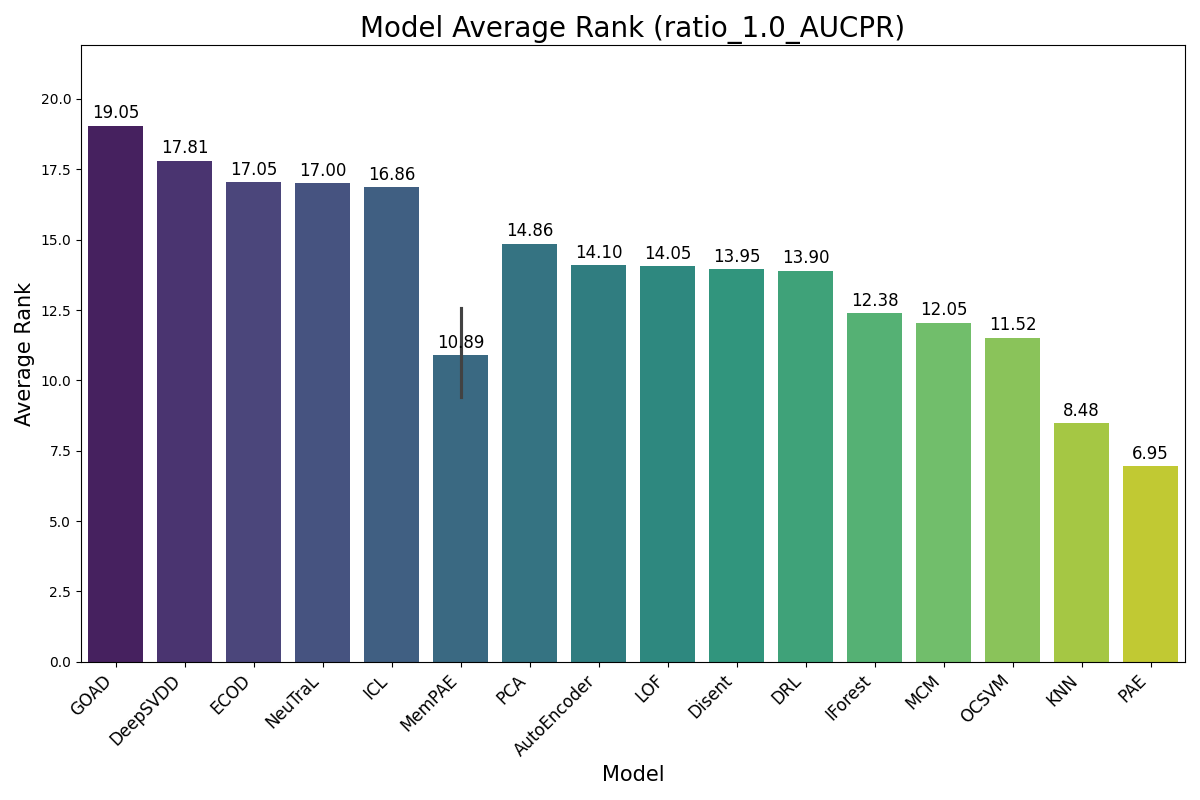
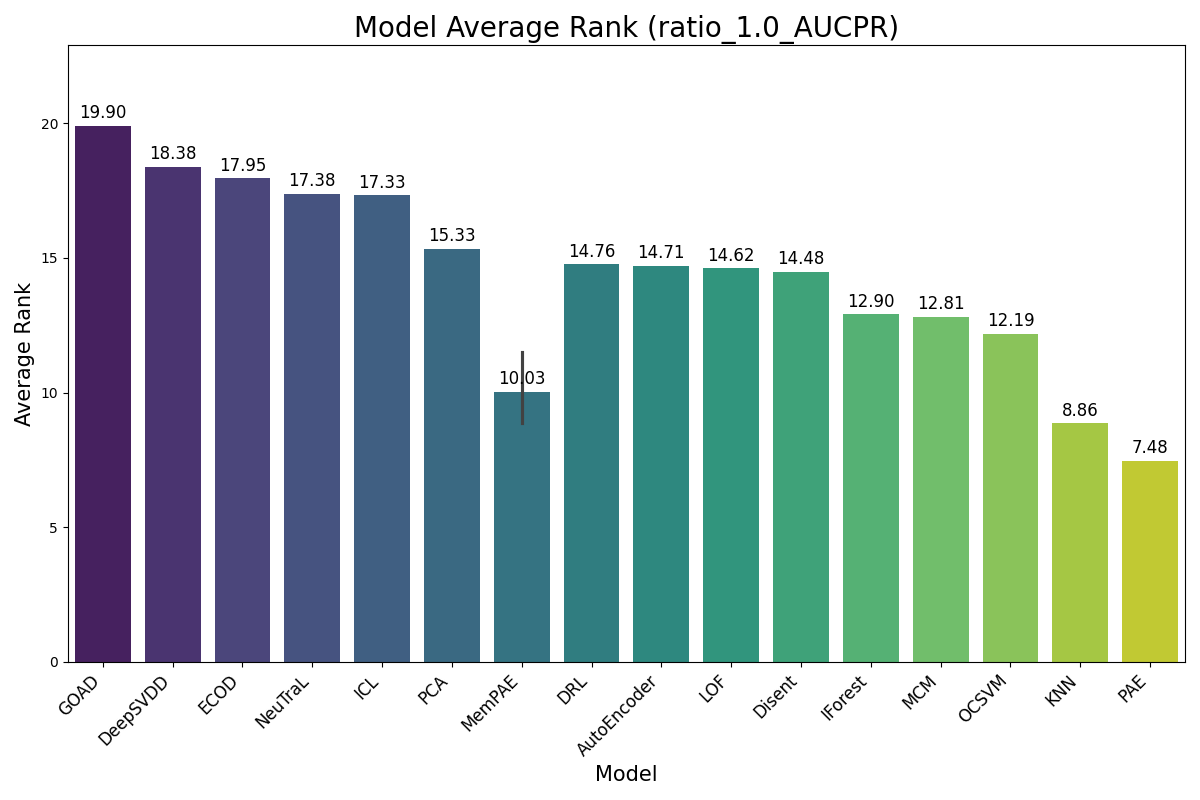
temp

diff --git a/summary.py b/summary.py
@@ -399,6 +399,10 @@ def render(
     df_render.index = [c.replace("pos_query+token", "pos") if "pos_query+token" in c else c
                         for c in df_render.index]
 
+                        
+    df_render.index = [c.replace("MemPAE-ws-cross_attn", "MPCA") if "MemPAE-ws-cross_attn" in c else c
+                        for c in df_render.index]
+
     os.makedirs('metrics', exist_ok=True)
     if is_synthetic:
         file_name = f'{base}_{synthetic_type}'
@@ -459,14 +463,14 @@ def main(args):
 
 
         'MemPAE-ws-cross_attn-rin-pos_query+token-d64-lr0.001',
-        'MemPAE-ws-rin-pos_query+token-d64-lr0.001-t0.1',
+        # 'MemPAE-ws-rin-pos_query+token-d64-lr0.001-t0.1',
         'MemPAE-ws-cross_attn-pos_query+token-use_ent_score-ent0.01-d64-lr0.001',
         'MemPAE-ws-cross_attn-pos_query+token-use_ent_score-ent0.001-d64-lr0.001',
         'MemPAE-ws-cross_attn-pos_query+token-d64-lr0.001',
         'MemPAE-ws-cross_attn-rin-pos_query+token-L2-d64-lr0.001',
         'MemPAE-ws-cross_attn-rin-pos_query+token-d32-lr0.001',
-        'MemPAE-ws-cross_attn-rin-pos_query+token-d32-lr0.005',
-        'MemPAE-ws-cross_attn-rin-pos_query+token-d64-lr0.005',
+        # 'MemPAE-ws-cross_attn-rin-pos_query+token-d32-lr0.005',
+        # 'MemPAE-ws-cross_attn-rin-pos_query+token-d64-lr0.005',
         'MemPAE-ws-cross_attn-rin-pos_query+token-L6-d32-lr0.001',
         'MemPAE-ws-cross_attn-rin-pos_query+token-L6-d64-lr0.001',
 
